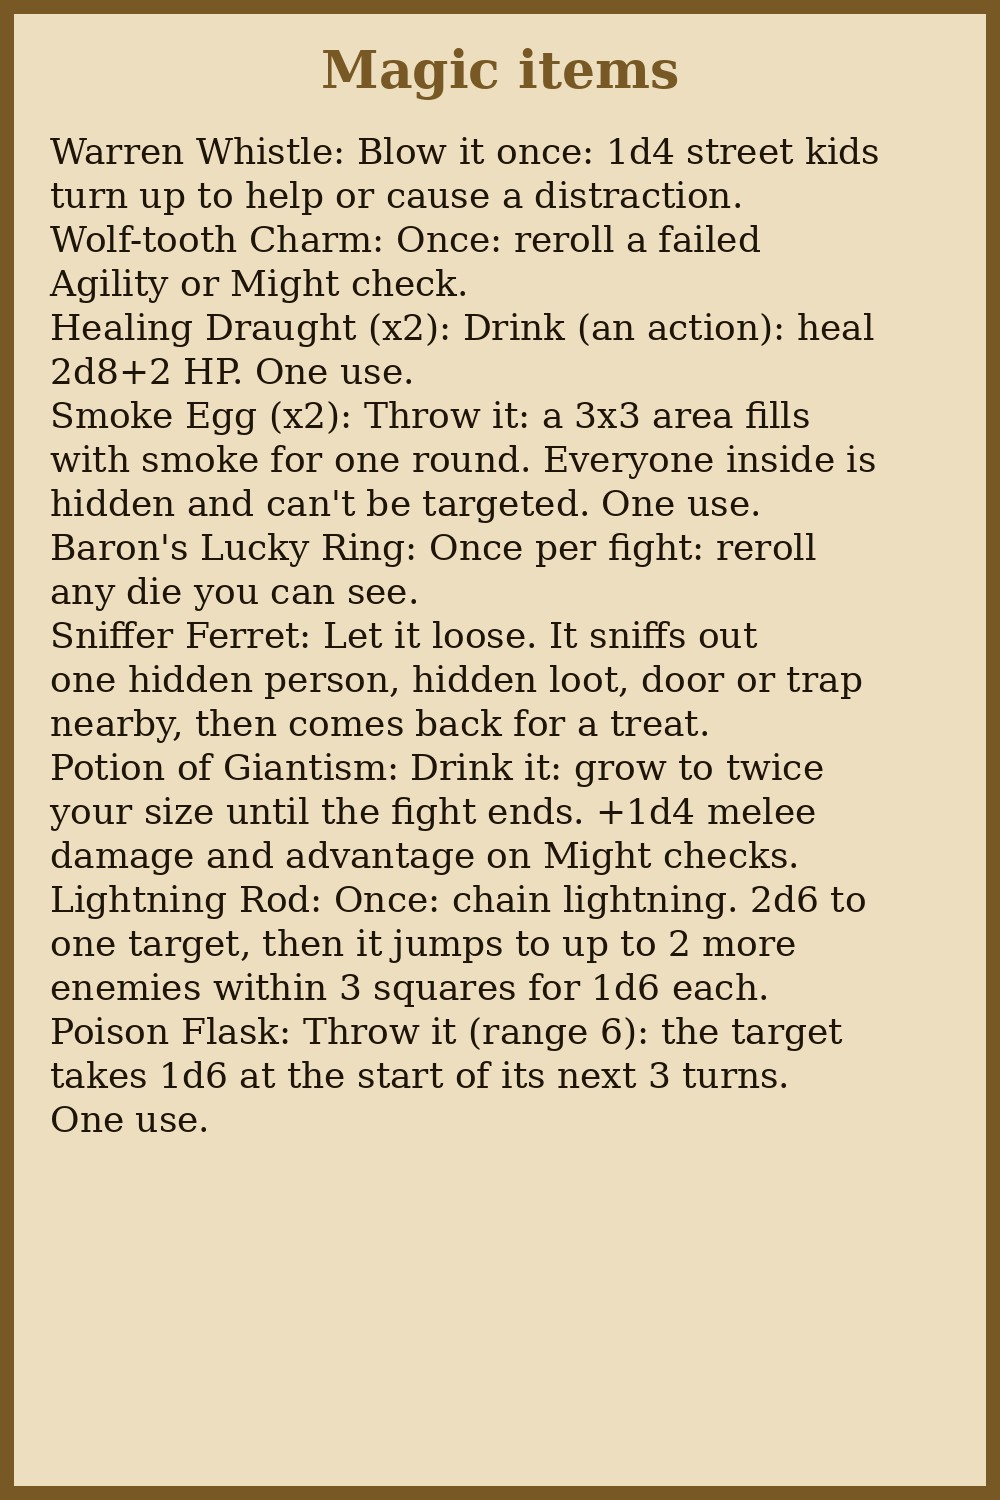
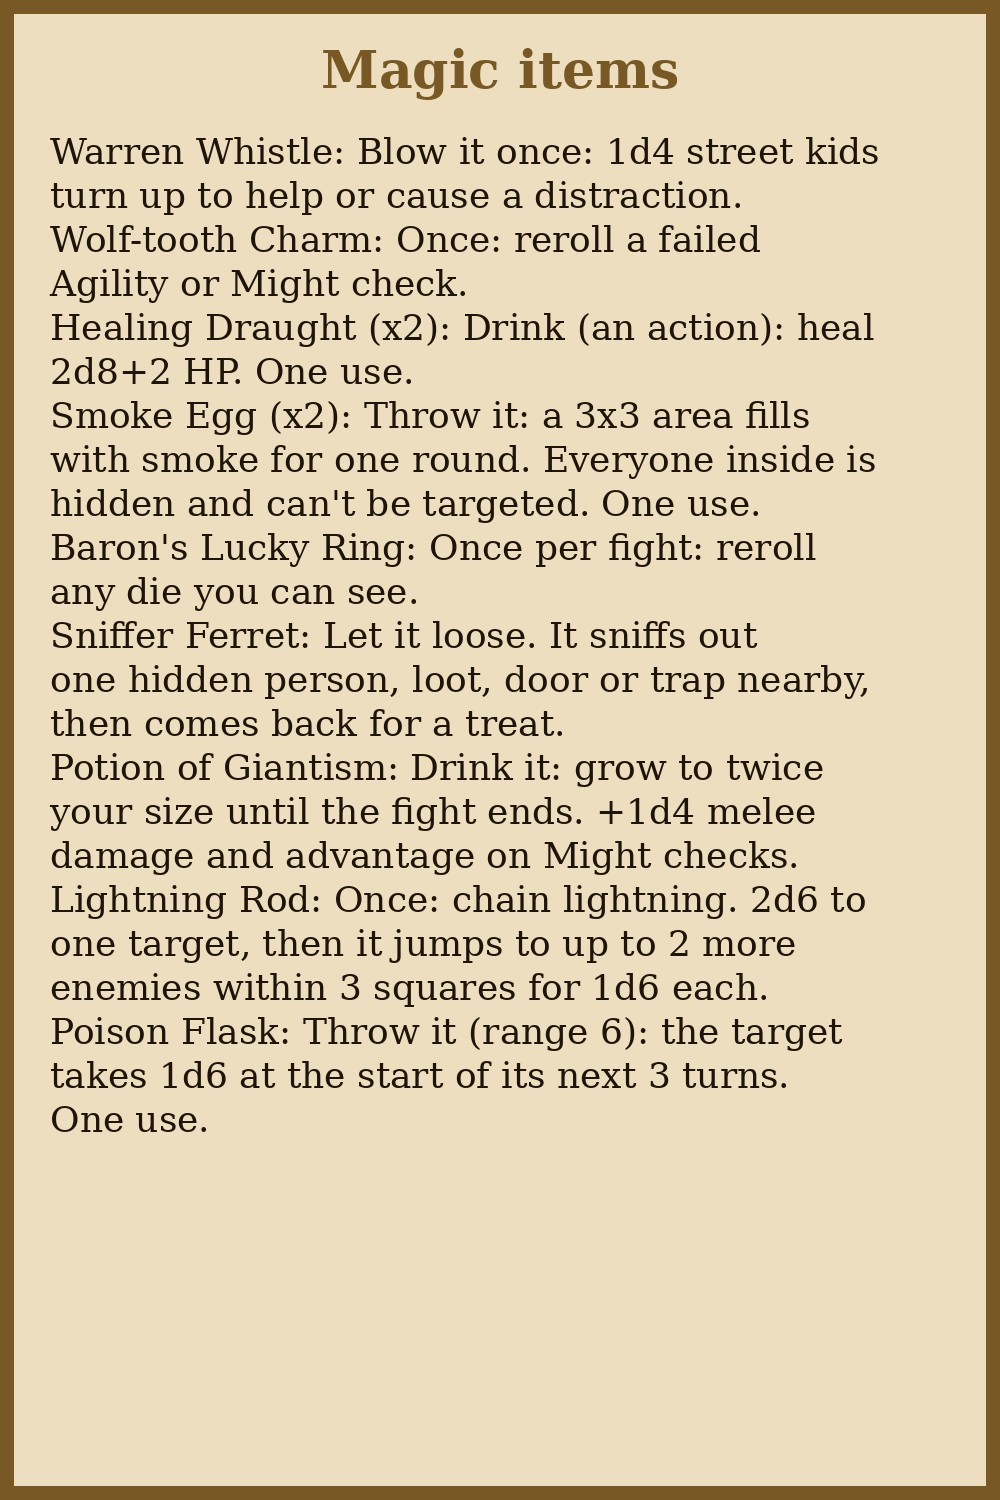
Sniffer Ferret: finds any loot

Changed region(s): [[0.062, 0.4293, 0.868, 0.4907]]

diff --git a/content.py b/content.py
@@ -461,7 +461,7 @@ Disarm: Agility DC 13 (Nimble Fingers auto). Triggered effects:
   4. BELL TRIPWIRE (column +8): harmless... unless it rings: the 2 giant rats in their nest (C) attack.
 SIDE PASSAGES (optional, each off the main tunnel; hover a chest/barrel/sack for its loot):
   A. OLD GUARD POST (north, column -3.5): a skeleton slumped by a chest. LOOT: in a little cage by the skeleton, a
-     SNIFFER FERRET, still alive (the smugglers' pet: it finds one hidden person, hidden loot, door or trap) - hint: the
+     SNIFFER FERRET, still alive (the smugglers' pet: it finds one hidden person, loot, door or trap) - hint: the
      princess will be hard to find in the cave. The chest is locked (Agility DC 12): 15 gold, a rope.
   B. COLLAPSED STASH (south, column +1.5): smugglers' goods half buried under a roof fall. Wits DC 12 notices the
      ceiling is loose; digging out the barrel without care brings more down (1d6, Agility DC 12 halves).
@@ -563,7 +563,7 @@ ITEMS = [
      "a grey clay egg-shaped bomb with a short smouldering fuse, wisps of smoke curling from it", 2),
     ("Baron's Lucky Ring", "Once per fight: reroll any die you can see.",
      "a heavy gold signet ring with a rat crest and a glowing green gem resting on a pile of old bone dice and coins on a gambling table, candlelight", 1),
-    ("Sniffer Ferret", "Let it loose. It sniffs out one hidden person, hidden loot, door or trap nearby, then comes back for a treat.",
+    ("Sniffer Ferret", "Let it loose. It sniffs out one hidden person, loot, door or trap nearby, then comes back for a treat.",
      "a sly sleek ferret with a tiny leather collar peeking out of a small wooden smuggler's cage, lantern light, stone tunnel", 1),
     ("Potion of Giantism", "Drink it: grow to twice your size until the fight ends. +1d4 melee damage and advantage on Might checks.",
      "a large bulbous potion bottle of swirling amber liquid with a giant's footprint seal on the cork, on a rough stone ledge", 1),

diff --git a/GM_GUIDE.md b/GM_GUIDE.md
@@ -189,7 +189,7 @@ Disarm: Agility DC 13 (Nimble Fingers auto). Triggered effects:
   4. BELL TRIPWIRE (column +8): harmless... unless it rings: the 2 giant rats in their nest (C) attack.
 SIDE PASSAGES (optional, each off the main tunnel; hover a chest/barrel/sack for its loot):
   A. OLD GUARD POST (north, column -3.5): a skeleton slumped by a chest. LOOT: in a little cage by the skeleton, a
-     SNIFFER FERRET, still alive (the smugglers' pet: it finds one hidden person, hidden loot, door or trap) - hint: the
+     SNIFFER FERRET, still alive (the smugglers' pet: it finds one hidden person, loot, door or trap) - hint: the
      princess will be hard to find in the cave. The chest is locked (Agility DC 12): 15 gold, a rope.
   B. COLLAPSED STASH (south, column +1.5): smugglers' goods half buried under a roof fall. Wits DC 12 notices the
      ceiling is loose; digging out the barrel without care brings more down (1d6, Agility DC 12 halves).
